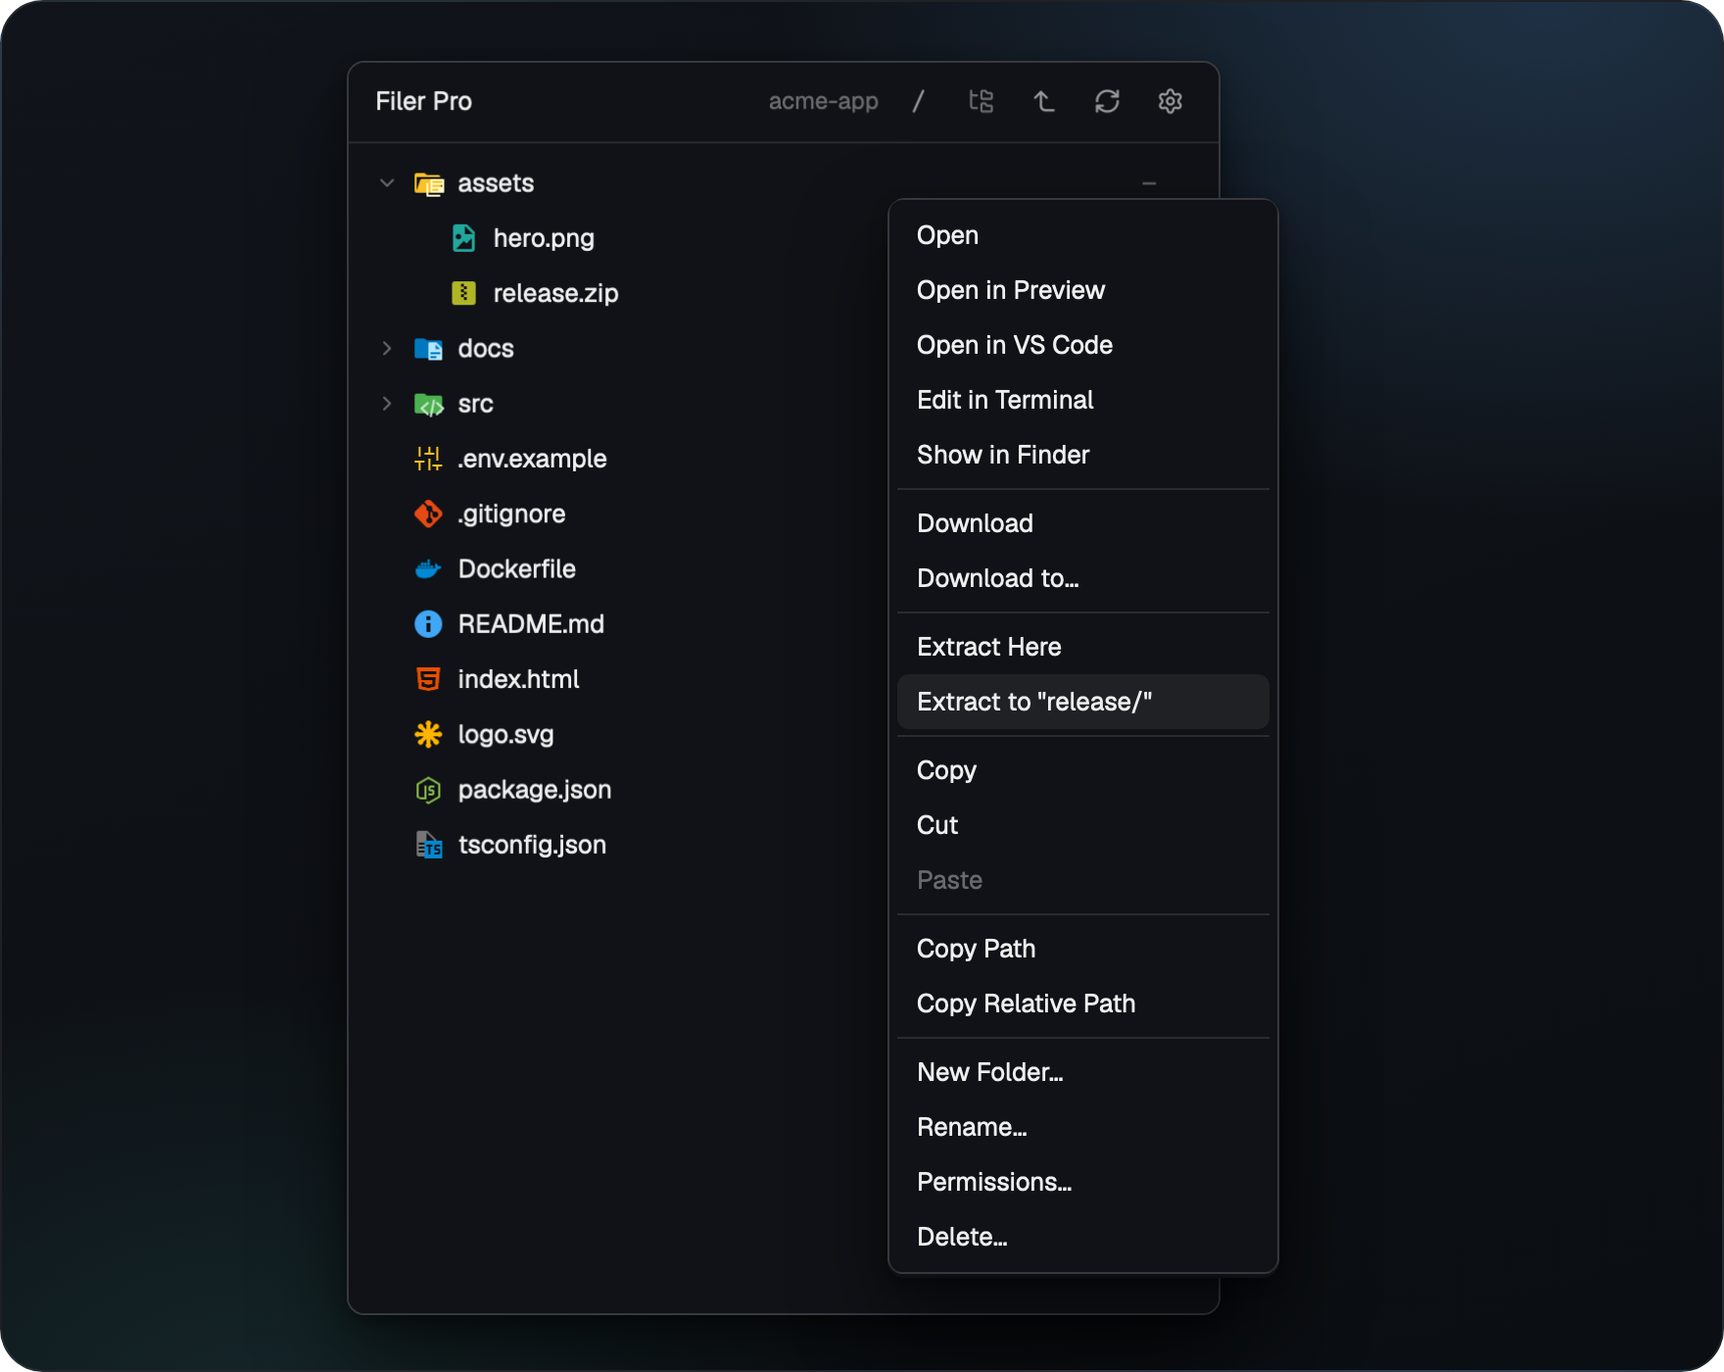
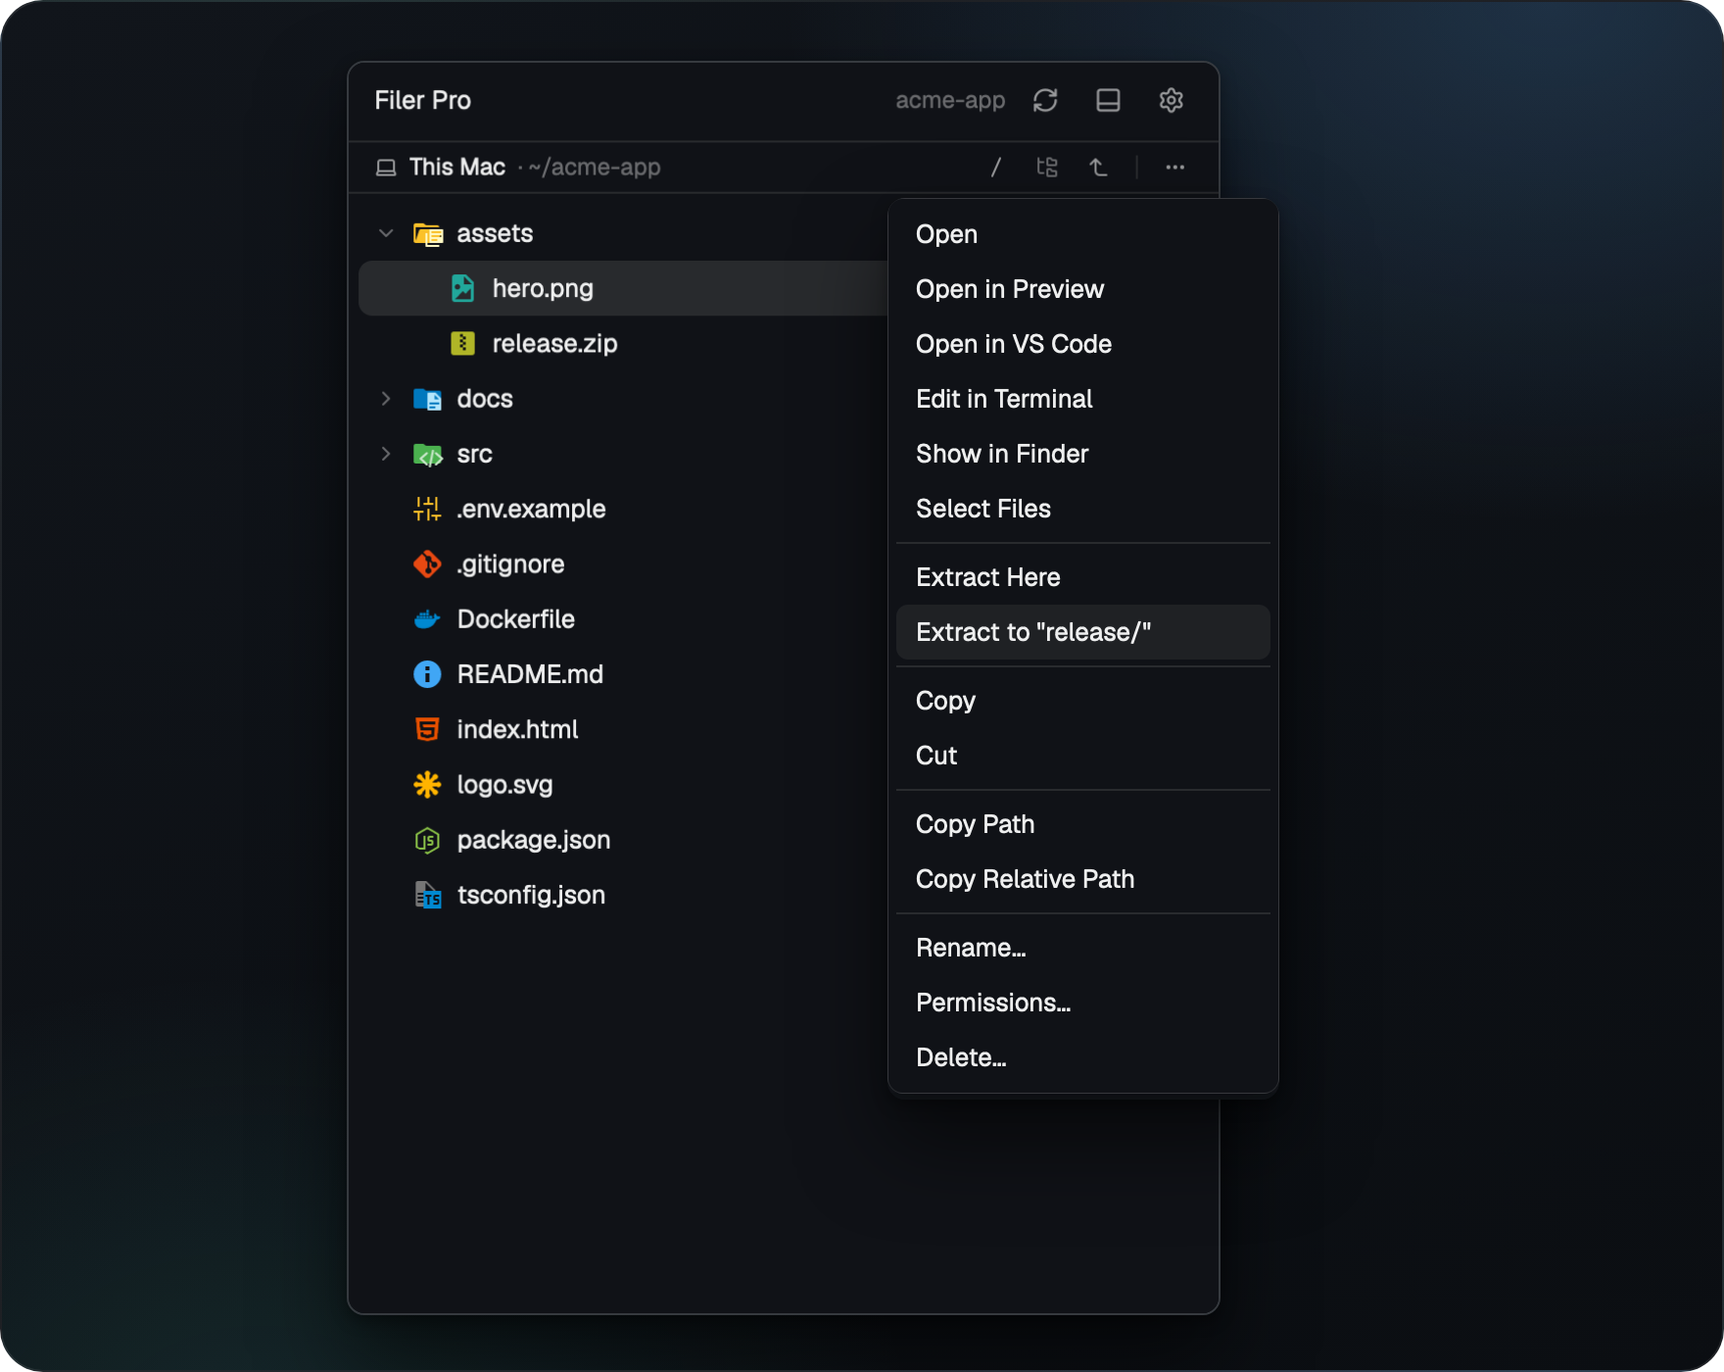
docs: README and screenshots for 1.4 (#117)
* docs: README and screenshots for 1.4

- README: Folder actions, This Mac below, Select several as own sections;
  Transfers rewritten for upload, download, move and drag into a terminal
- new cards: machine (devbox tree over This Mac), select, folder-actions
- re-shot: browse, editors, extract, show-as-root, settings
- shoot.sh: select, machine, folder-actions; DEMO_MACHINE shows a host as
  devbox; zoom 2 fallback on displays without Retina scaling
- demo-instance.sh: machine step with its own hc session, cleaned by clean
- demo-hook.mjs: select op, tree parameter, row menu as in rows()

* docs: hero and transfers cards for 1.4

- preview.png is a card now (cards/hero.html): the devbox tree over This
  Mac with two files selected and their menu, the key features as text
- transfers.png from two shots: a download in the transfers bar and the
  conflict dialog, both set through the demo hook (nothing runs)
- demo-hook.mjs: jobs and conflict ops

* docs: hero with checkboxes, feature icons and a settled wait

- hero: Select Files mode with three files ticked, an icon per feature
  (the mod's own Lucide icons, inline in cards/hero.html)
- demo-hook.mjs: probe op (still listing, rows without size);
  shoot.sh waits on it before the hero shots

* docs: hero with three top-level files ticked, docs collapsed

- shoot.sh: the hero ticks README.md, index.html and package.json and
  keeps docs collapsed; a new space on devbox is retried for about 30 s
[…]

diff --git a/scripts/screenshots/cards/hero.html b/scripts/screenshots/cards/hero.html
@@ -1,0 +1,37 @@
+<!DOCTYPE html>
+<html lang="en"><head><meta charset="utf-8"><title>Hero card</title>
+<link rel="stylesheet" href="card.css">
+<style>
+/* layout: the README hero. Left: name, tagline and the key features as text. Right: the devbox tree over This Mac with two
+   files selected, the menu for both beside it. The bullets follow the README intro. */
+html, body { width: 1022px; height: 572px; }
+.copy { position: absolute; left: 44px; top: 56px; width: 400px; color: #e6eaf0; font-family: -apple-system, "SF Pro Text", "Inter", system-ui, sans-serif; }
+.badge { display: inline-block; font-size: 13px; color: #aab4c0; border: 1px solid rgba(255,255,255,0.14); border-radius: 999px; padding: 4px 12px; }
+h1 { font-size: 40px; line-height: 1.1; font-weight: 700; margin: 22px 0 8px; letter-spacing: -0.01em; }
+.tag { font-size: 17px; line-height: 1.45; color: #9aa5b2; margin-bottom: 26px; }
+ul { list-style: none; display: grid; gap: 10px; }
+li { font-size: 16px; line-height: 1.35; display: flex; align-items: center; gap: 12px; }
+/* the mod's own Lucide icons (mods/filer-pro/*.svg), inline so headless Edge draws them; select uses a checked box */
+li svg { flex: none; width: 18px; height: 18px; padding: 6px; box-sizing: content-box; border-radius: 8px; background: rgba(90, 169, 245, 0.12); border: 1px solid rgba(90, 169, 245, 0.22);
+  fill: none; stroke: #7cc0ff; stroke-width: 2; stroke-linecap: round; stroke-linejoin: round; }
+.tree { left: 466px; top: 30px; width: 446px; height: 512px; }
+.shot.cut.tree { border-color: #363a3f; }
+.menu { left: 800px; top: 140px; width: 200px; border-radius: 9px; }
+</style></head>
+<body><div class="frame">
+  <div class="copy">
+    <span class="badge">Herdr mod · macOS · SSH</span>
+    <h1>Filer Pro</h1>
+    <div class="tag">The file panel for Herdr, on your Mac and on every machine you reach over SSH.</div>
+    <ul>
+      <li><svg viewBox="0 0 24 24" aria-hidden="true"><path d="M20 10a1 1 0 0 0 1-1V6a1 1 0 0 0-1-1h-2.5a1 1 0 0 1-.8-.4l-.9-1.2A1 1 0 0 0 15 3h-2a1 1 0 0 0-1 1v5a1 1 0 0 0 1 1Z"/><path d="M20 21a1 1 0 0 0 1-1v-3a1 1 0 0 0-1-1h-2.9a1 1 0 0 1-.88-.55l-.42-.85a1 1 0 0 0-.92-.6H13a1 1 0 0 0-1 1v5a1 1 0 0 0 1 1Z"/><path d="M3 5a2 2 0 0 0 2 2h3"/><path d="M3 3v13a2 2 0 0 0 2 2h3"/></svg>Follows your terminal, local or remote</li>
+      <li><svg viewBox="0 0 24 24" aria-hidden="true"><rect width="20" height="8" x="2" y="2" rx="2" ry="2"/><rect width="20" height="8" x="2" y="14" rx="2" ry="2"/><line x1="6" x2="6.01" y1="6" y2="6"/><line x1="6" x2="6.01" y1="18" y2="18"/></svg>Two trees: a machine above, This Mac below</li>
+      <li><svg viewBox="0 0 24 24" aria-hidden="true"><path d="M12 15V3"/><path d="M21 15v4a2 2 0 0 1-2 2H5a2 2 0 0 1-2-2v-4"/><path d="m7 10 5 5 5-5"/></svg>Upload, download, copy and move between them</li>
+      <li><svg viewBox="0 0 24 24" aria-hidden="true"><rect width="18" height="18" x="3" y="3" rx="3"/><path d="m8 12 3 3 5-6"/></svg>Select several files and act on all</li>
+      <li><svg viewBox="0 0 24 24" aria-hidden="true"><path d="M15 2H6a2 2 0 0 0-2 2v16a2 2 0 0 0 2 2h12a2 2 0 0 0 2-2V7Z"/><path d="M14 2v4a2 2 0 0 0 2 2h4"/></svg>Preview Markdown, PDF, HTML and images</li>
+      <li><svg viewBox="0 0 24 24" aria-hidden="true"><path d="M21.174 6.812a1 1 0 0 0-3.986-3.987L3.842 16.174a2 2 0 0 0-.5.83l-1.321 4.352a.5.5 0 0 0 .623.622l4.353-1.32a2 2 0 0 0 .83-.497z"/><path d="m15 5 4 4"/></svg>Edit in place or in your editor</li>
+    </ul>
+  </div>
+  <div class="shot cut tree"><img src="hero-tree.png" alt=""></div>
+  <div class="shot menu"><img src="hero-menu.png" alt=""></div>
+</div></body></html>

diff --git a/scripts/screenshots/cards/machine.html b/scripts/screenshots/cards/machine.html
@@ -1,0 +1,14 @@
+<!DOCTYPE html>
+<html lang="en"><head><meta charset="utf-8"><title>Machine card</title>
+<link rel="stylesheet" href="card.css">
+<style>
+/* layout: the devbox tree above This Mac with both location lines, the row menu of a remote file with Download to This Mac beside it */
+html, body { width: 880px; height: 792px; }
+.tree { left: 120px; top: 30px; width: 446px; height: 732px; }
+.shot.cut.tree { border-color: #363a3f; }
+.menu { left: 580px; top: 100px; width: 200px; border-radius: 9px; }
+</style></head>
+<body><div class="frame">
+  <div class="shot cut tree"><img src="machine-tree.png" alt=""></div>
+  <div class="shot menu"><img src="machine-menu.png" alt=""></div>
+</div></body></html>

diff --git a/scripts/screenshots/cards/select.html b/scripts/screenshots/cards/select.html
@@ -1,0 +1,14 @@
+<!DOCTYPE html>
+<html lang="en"><head><meta charset="utf-8"><title>Select card</title>
+<link rel="stylesheet" href="card.css">
+<style>
+/* layout: three files picked in the checkbox mode with the selection bar below the tree, the short menu for all of them beside it */
+html, body { width: 880px; height: 792px; }
+.tree { left: 120px; top: 30px; width: 446px; height: 732px; }
+.shot.cut.tree { border-color: #363a3f; }
+.menu { left: 580px; top: 100px; width: 200px; border-radius: 9px; }
+</style></head>
+<body><div class="frame">
+  <div class="shot cut tree"><img src="select-tree.png" alt=""></div>
+  <div class="shot menu"><img src="select-menu.png" alt=""></div>
+</div></body></html>

diff --git a/scripts/screenshots/cards/transfers.html b/scripts/screenshots/cards/transfers.html
@@ -1,0 +1,13 @@
+<!DOCTYPE html>
+<html lang="en"><head><meta charset="utf-8"><title>Transfers card</title>
+<link rel="stylesheet" href="card.css">
+<style>
+/* layout: the devbox tree over This Mac with a download in the transfers bar at the bottom, the conflict dialog over its right half */
+html, body { width: 880px; height: 792px; }
+.tree { left: 60px; top: 30px; width: 446px; height: 732px; }
+.dialog { left: 400px; top: 250px; width: 440px; height: 240px; }
+</style></head>
+<body><div class="frame">
+  <div class="shot cut tree"><img src="transfers-tree.png" alt=""></div>
+  <div class="shot dialog"><img src="transfers-dialog.png" alt=""></div>
+</div></body></html>

diff --git a/scripts/screenshots/cards/folder-actions.html b/scripts/screenshots/cards/folder-actions.html
@@ -1,0 +1,14 @@
+<!DOCTYPE html>
+<html lang="en"><head><meta charset="utf-8"><title>Folder actions card</title>
+<link rel="stylesheet" href="card.css">
+<style>
+/* layout: the devbox tree, the Folder actions menu of its location line beside it */
+html, body { width: 880px; height: 640px; }
+.tree { left: 120px; top: 30px; width: 446px; height: 580px; }
+.shot.cut.tree { border-color: #363a3f; }
+.menu { left: 580px; top: 100px; width: 200px; border-radius: 9px; }
+</style></head>
+<body><div class="frame">
+  <div class="shot cut tree"><img src="folder-tree.png" alt=""></div>
+  <div class="shot menu"><img src="folder-menu.png" alt=""></div>
+</div></body></html>

diff --git a/scripts/screenshots/README.md b/scripts/screenshots/README.md
@@ -8,17 +8,21 @@ The README images in `screenshots/` are cards: crops of a running Herdr window, 
 scripts/screenshots/shoot.sh
 ```
 
-`scripts/screenshots/shoot.sh browse extract` shoots only the named cards (preview, formats, browse, editors, extract, edit-terminal, pdf-fullscreen, settings, show-as-root); `CROP_ONLY=1` re-crops and renders from the raw shots in `tmp/shots-raw` without launching anything.
+`scripts/screenshots/shoot.sh browse extract` shoots only the named cards (preview, formats, browse, editors, extract, edit-terminal, pdf-fullscreen, settings, show-as-root, select, machine, folder-actions, transfers, hero); `hero` renders `preview.png` at the top of the README, with its feature list as text on the card (`cards/hero.html`, keep it in line with the README intro); `CROP_ONLY=1` re-crops and renders from the raw shots in `tmp/shots-raw` without launching anything.
 
-It prepares a separate Herdr instance, launches it once, sets every state without mouse or keyboard, takes the shots, quits the instance, crops them and renders all cards into `screenshots/`. Needs macOS, Herdr.app, Microsoft Edge (headless, no window), `node`, `zip` and `sips`. Look at every image before you commit it: no user name, no path outside `~/acme-app`.
+`machine`, `folder-actions`, `transfers` and `hero` show a machine tree and need an SSH host: `DEMO_MACHINE=<ssh target> scripts/screenshots/shoot.sh`. The host shows as `devbox` and gets the demo project in `/tmp/acme-app` (a machine tree shows the full path, so a folder below `/home/<user>` would show the user name). Without `DEMO_MACHINE` these cards are skipped.
+
+It prepares a separate Herdr instance, launches it once, sets every state without mouse or keyboard, takes the shots, quits the instance, crops them and renders all cards into `screenshots/`. Needs macOS, Herdr.app, Microsoft Edge (headless, no window), `node`, `zip` and `sips`. Look at every image before you commit it: no user name, no path outside `~/acme-app` (and `/tmp/acme-app` on `devbox`), no real host name.
+
+On a display without Retina scaling the window shoots at half size. Then the run restarts the instance with a window of 2560 x 1640 points at app zoom 2, so the panel lands on the same pixels; `preview`, `formats` and `pdf-fullscreen` are skipped then, and `edit-terminal` cuts its menu at the window edge (Markdown, Mermaid, PDF and HTML draw at the wrong scale at zoom 2): shoot those on a Retina display.
 
 What it never does: touch your own Herdr or its installed mod, use `osascript`, `open -a`, mouse or keyboard automation, or raise a window. The one focus change is macOS giving a new app instance the focus when it launches. The window must stay visible (a minimized window renders no frames for `herdr-app shot`).
 
 ## Files
 
-- `shoot.sh`: the whole run (prepare, launch, drive, shoot, quit, clean, crop, render). The crop boxes are raw pixels of the default window (1280 x 820 points, panel 446 points wide, app zoom 1); it stops when the window has another size.
-- `demo-instance.sh`: `prepare | start | space | quit | clean` for the separate instance. Its `HERDR_APP_HOME` is `tmp/shots-home` and its core session `filerpro-shots`. `prepare` copies `demo/acme-app` to `~/acme-app` (the pane header shows that path, and it refuses to overwrite an existing folder), generates `report.pdf`, `hero.png` and `release.zip` from `demo/gen/` (headless Edge, `zip`), copies the mod of this checkout and writes a layout with the panel shown. It also marks the welcome screen (`frame.welcomed` in `shared.json`) and the what's-new window (`last_run` in `update-notes.json`) as done, so a new instance opens no popup that would need a click.
-- `demo-hook.mjs`: patches the instance's copy of the mod (never `mods/filer-pro`, never your installed mod) so the panel polls `$HERDR_APP_HOME/demo-cmd.json` and sets the state a click or hover would set, through the real code: expanded folders, Calculate Size, the row menu with one entry hovered, the Settings dialog scrolled to a section, the fullscreen PDF with two pages, the lower tree on or off (`{"op":"localtree","shown":true}`, optional `root` and `sizes`). It stops loudly when an anchor in the mod has moved; `test/screenshot-hook.test.js` applies it to the current mod on every `npm test`, and checks that the shipped mod has no trace of it.
+- `shoot.sh`: the whole run (prepare, launch, drive, shoot, quit, clean, crop, render). The crop boxes are raw pixels of the default window (1280 x 820 points at 2x, panel 446 points wide, app zoom 1); it stops when the window has another size.
+- `demo-instance.sh`: `prepare | start | space | machine | quit | clean` for the separate instance. Its `HERDR_APP_HOME` is `tmp/shots-home` and its core session `filerpro-shots`. `prepare` copies `demo/acme-app` to `~/acme-app` (the pane header shows that path, and it refuses to overwrite an existing folder), generates `report.pdf`, `hero.png` and `release.zip` from `demo/gen/` (headless Edge, `zip`), copies the mod of this checkout and writes a layout with the panel shown. It also marks the welcome screen (`frame.welcomed` in `shared.json`) and the what's-new window (`last_run` in `update-notes.json`) as done, so a new instance opens no popup that would need a click. `machine` copies the demo to `/tmp/acme-app` on `DEMO_MACHINE` (it refuses to overwrite) and adds that host to this instance's core only, as `devbox`, with its own hc session there: `~/.ssh/config` and the machines of your own Herdr stay as they are. `clean` deletes both again, the remote session included.
+- `demo-hook.mjs`: patches the instance's copy of the mod (never `mods/filer-pro`, never your installed mod) so the panel polls `$HERDR_APP_HOME/demo-cmd.json` and sets the state a click or hover would set, through the real code: expanded folders, Calculate Size, the row menu with one entry hovered, the Settings dialog scrolled to a section, the fullscreen PDF with two pages, the lower tree on or off (`{"op":"localtree","shown":true}`, optional `root` and `sizes`), a selection (`{"op":"select","paths":[…],"boxes":true}`), the Folder actions menu (`rootmenu`), a made-up job in the transfers bar (`jobs`: shown only, nothing runs) and the conflict dialog with a made-up case (`conflict`). `"tree":"pinned"` points a command at the lower tree. It stops loudly when an anchor in the mod has moved; `test/screenshot-hook.test.js` applies it to the current mod on every `npm test`, and checks that the shipped mod has no trace of it.
 - `render.sh`: renders a card into a PNG with headless Microsoft Edge (`EDGE=/path/to/browser` picks another Chromium-based browser).
 - `cards/card.css`, `cards/*.html`: the shared frame and one card per image, each listing its crops and their positions in CSS pixels. The crops (`cards/*.png`) and the browser profile are ignored by git: they hold window content, only the finished card goes into `screenshots/`.
 - `demo/acme-app/`, `demo/gen/`: the demo project and the sources of its generated binary files.

diff --git a/README.md b/README.md
@@ -7,7 +7,8 @@
 - **Follows your terminal:** the tree shows the folder of the focused terminal, local or remote.
 - **Previews almost anything:** Markdown with Mermaid diagrams, PDF, code, HTML and images, also in full screen.
 - **Edits in place:** quick fixes right in the panel, or one click to your editor.
-- **Moves files between machines:** upload, download and copy from one SSH machine to another.
+- **Two trees:** your terminal's folder on top, This Mac below.
+- **Moves files between your Mac and your machines:** upload, download, copy and move, also from one SSH machine to another.
 - **Quiet on SSH machines:** no commands sent while you just look.
 
 <br>
@@ -35,14 +36,36 @@ Then click `Filer Pro` in the tab bar.
 ### Browse
 
 - **Your terminal's folder:** `cd` in the terminal, and the tree follows.
-- **This Mac below:** a second tree on this computer under the terminal's tree; Copy in one, Paste in the other.
-- **Navigate freely:** Up one level, Go to `/`, and one click back to the terminal's folder, in a location line above each tree.
-- **Folder actions:** the `…` button of each tree for New Folder, Paste, Upload, Show in Finder, Open in your editor and Show Hidden Files.
+- **Location line:** where you are, Go to `/`, Up one level and one click back to the terminal's folder.
 - **Sizes and git marks:** file sizes next to each name, Calculate Size for folders, `M` `A` `U` `D` from git.
 - **Always current:** follows file system events on this Mac, no polling.
-- **Select several files:** Select Files in the right-click menu, or Cmd+click and Shift+click with the switch in Settings.
 
 ![The file tree with sizes, a calculated folder size and the row menu of a file](screenshots/browse.png)
+
+### Folder actions
+
+- **The `…` in the location line**, or a right click below the tree: Upload File… and Upload Folder… on machines, New Folder…, Paste, Show in Finder, Open in your editor, Select Files.
+- **Show Hidden Files** with one click.
+- **Row menus act on the row** they belong to.
+
+![The Folder actions of a machine tree with Upload File…, Upload Folder… and Show Hidden Files](screenshots/folder-actions.png)
+
+### This Mac below
+
+- **A second tree** on this computer under the terminal's tree: **Show This Mac** in the header, `×` to close.
+- **Starts in your home folder,** or in the start folder you set in Settings.
+- **Between the trees:** Download to This Mac, Upload to `<machine>`, or Copy and Paste.
+- **Drag the divider** to share the height.
+
+![A machine tree on devbox above This Mac, with Download to This Mac in the row menu](screenshots/machine.png)
+
+### Select several
+
+- **Select Files** in a menu puts a checkbox on every row.
+- **Cmd+click and Shift+click** with the switch in Settings.
+- **One step for all:** Download, Copy, Cut, Paste, Copy Paths or Delete, from the selection bar or a right click.
+
+![Three files checked, the selection bar and the menu for all of them](screenshots/select.png)
 
 ### Show as Root
 
@@ -88,11 +111,12 @@ Then click `Filer Pro` in the tab bar.
 
 ### Transfers
 
-- **Drop to upload** from the Finder, or **Upload File…** or **Upload Folder…** in the Folder actions of a machine tree (the file picker needs a Herdr version with `pickFiles`), right click to download.
-- **Drag out:** rows are drag sources for terminals only (the path is pasted). Between the two trees use **Upload to <machine>**, **Download to This Mac** or Copy and Paste.
+- **Upload:** drop files from the Finder, or Upload File… and Upload Folder… in the Folder actions of a machine tree.
+- **Download:** right click a row on a machine, or Download to This Mac into the lower tree.
+- **Move:** Cut on one side, Paste on the other, between this computer and a machine or between two machines. The original goes only after the copy checks out.
+- **Machine to machine:** Copy on one, Paste on the other, through this computer.
+- **Drag a row into a terminal** to paste its path.
 - **Progress and cancel** for every transfer, nothing overwritten without asking.
-- **Machine to machine:** Copy or Cut on one, Paste on the other, through this computer. A Cut copies, checks and then deletes the original.
-- **Several at once:** select rows, then Download, Copy, Cut or Delete them in one step.
 
 ![A running transfer and the conflict dialog](screenshots/transfers.png)
 
